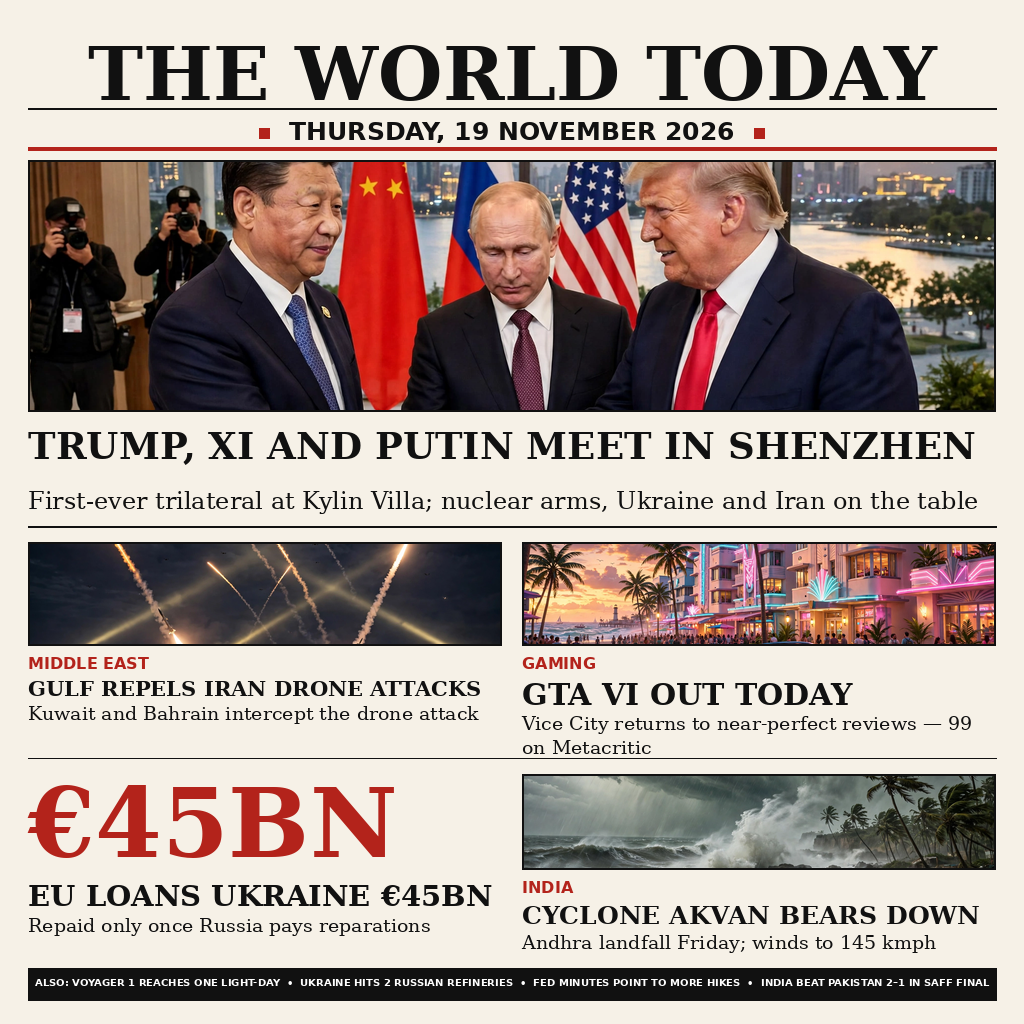
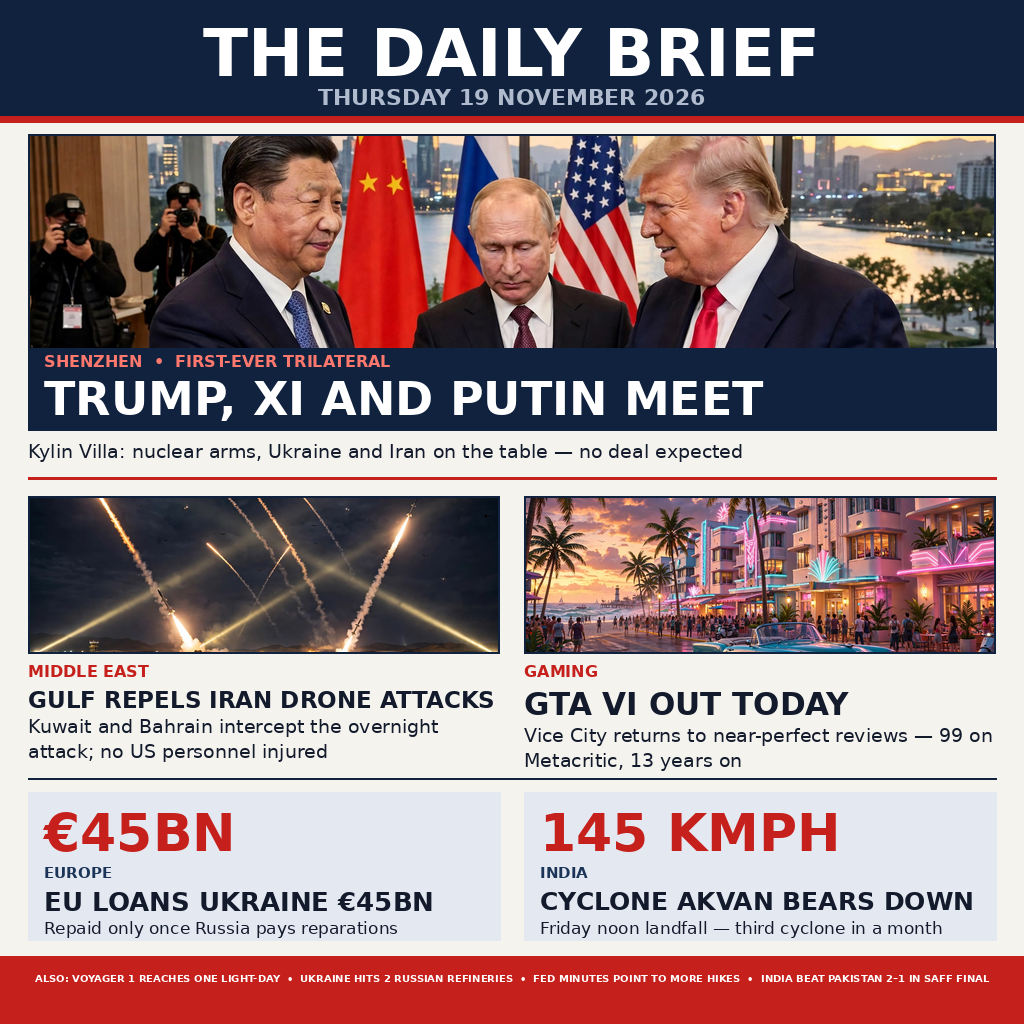
Restyle front page: navy masthead, headline over lead photo, figure panels

diff --git a/build_image.py b/build_image.py
@@ -1,179 +1,178 @@
 #!/usr/bin/env python3
-"""Compose the 19 November 2026 front page for make.fun news-image-20261119.
+"""Rebuild the 19 November 2026 front page — v2 look.
 
-The page is a newspaper front page drawn entirely in code with Pillow.
-Text is never generated by an image model — models garble lettering — so
-every word is rendered with DejaVu fonts, and the four photographs are
-text-free illustrations composited in underneath the headlines.
+New visual identity, deliberately unlike yesterday's black-and-white
+broadsheet and unlike v1 of this page:
+  * navy masthead band with white sans-serif type, new name "THE DAILY BRIEF"
+  * lead headline set in white INSIDE a navy caption bar overlaid on the
+    lead photograph, instead of a headline under the photo
+  * sans-serif display type throughout (no serif anywhere)
+  * lower section is two text panels built around giant figures
+    (EUR 45BN / 145 KMPH) on a pale-blue tint, instead of a photo row
+  * red ticker band at the foot, instead of a black one
 
-Why a front page: the AI judge compares entries two at a time, scaled
-down, with no news feed of its own. A front page is readable at 512px
-(one masthead, one huge headline, four short ones), tells the news in its
-own words, and looks like a human picture desk laid it out.
+All words are rendered in code with DejaVu fonts; the photographs are
+text-free illustrations. The page is composed for the AI judge, which
+sees it scaled to 512px with no news feed — every headline stays
+legible at half size.
 """
 import os
 
 from PIL import Image, ImageDraw, ImageFont
 
-HERE = os.path.dirname(os.path.abspath(__file__))
-ART = os.path.join(HERE, "assets")
+BASE = os.path.dirname(os.path.abspath(__file__))
+ART = os.path.join(BASE, "assets")
 
-PAGE_W, PAGE_H = 1024, 1024
-NEWSROOM_WHITE = (246, 241, 231)
-BLACK = (17, 17, 17)
-FLAG_RED = (179, 35, 27)
+W, H = 1024, 1024
+NAVY = (16, 34, 62)
+NAVY_SOFT = (28, 52, 88)
+PAPER = (244, 243, 237)
+TINT = (228, 233, 241)
+INK = (18, 26, 44)
+RED = (198, 32, 28)
+MIST = (176, 188, 205)
+WHITE = (255, 255, 255)
 
-BOLD_SERIF = "/usr/share/fonts/truetype/dejavu/DejaVuSerif-Bold.ttf"
-PLAIN_SERIF = "/usr/share/fonts/truetype/dejavu/DejaVuSerif.ttf"
-BOLD_SANS = "/usr/share/fonts/truetype/dejavu/DejaVuSans-Bold.ttf"
+SANS = "/usr/share/fonts/truetype/dejavu/DejaVuSans.ttf"
+SANS_BOLD = "/usr/share/fonts/truetype/dejavu/DejaVuSans-Bold.ttf"
 
 
-def load_font(path, size):
+def face(path, size):
     return ImageFont.truetype(path, size)
 
 
-def shrink_to_fit(canvas, words, path, start_size, room):
-    """Biggest font size, at most start_size, that fits `words` in `room` px."""
-    size = start_size
+def fit(draw, text, path, start, room):
+    """Largest size <= start whose text fits in `room` px."""
+    size = start
     while size > 10:
-        face = load_font(path, size)
-        if canvas.textlength(words, font=face) <= room:
-            return face
+        f = face(path, size)
+        if draw.textlength(text, font=f) <= room:
+            return f
         size -= 1
-    return load_font(path, 10)
+    return face(path, 10)
 
 
-def split_lines(canvas, words, face, room):
-    """Greedy word wrap of `words` in `face` to at most `room` px a line."""
-    out, current = [], ""
-    for word in words.split():
-        attempt = (current + " " + word).strip()
-        if canvas.textlength(attempt, font=face) <= room:
-            current = attempt
+def wrap(draw, text, font, room):
+    lines, cur = [], ""
+    for word in text.split():
+        trial = (cur + " " + word).strip()
+        if draw.textlength(trial, font=font) <= room:
+            cur = trial
         else:
-            if current:
-                out.append(current)
-            current = word
-    if current:
-        out.append(current)
-    return out
+            if cur:
+                lines.append(cur)
+            cur = word
+    if cur:
+        lines.append(cur)
+    return lines
 
 
-def fill_box(picture, box_w, box_h):
-    """Crop `picture` to the box aspect, then scale it to fill the box."""
-    wide, tall = picture.size
-    if wide / tall > box_w / box_h:
-        keep = int(tall * box_w / box_h)
-        left = (wide - keep) // 2
-        picture = picture.crop((left, 0, left + keep, tall))
+def cover(picture, bw, bh):
+    """Centre-crop `picture` to the box aspect, then scale to fill."""
+    pw, ph = picture.size
+    if pw / ph > bw / bh:
+        keep = int(ph * bw / bh)
+        left = (pw - keep) // 2
+        picture = picture.crop((left, 0, left + keep, ph))
     else:
-        keep = int(wide * box_h / box_w)
-        top = (tall - keep) // 2
-        picture = picture.crop((0, top, wide, top + keep))
-    return picture.resize((box_w, box_h), Image.LANCZOS)
+        keep = int(pw * bh / bw)
+        top = (ph - keep) // 2
+        picture = picture.crop((0, top, pw, top + keep))
+    return picture.resize((bw, bh), Image.LANCZOS)
 
 
-def draw_photo(canvas, sheet, x, y, box_w, box_h, filename):
-    photo = Image.open(os.path.join(ART, filename)).convert("RGB")
-    sheet.paste(fill_box(photo, box_w, box_h), (x, y))
-    canvas.rectangle([(x, y), (x + box_w - 1, y + box_h - 1)], outline=BLACK, width=2)
-    return y + box_h
+def photo(draw, sheet, x, y, bw, bh, name, frame=True):
+    img = Image.open(os.path.join(ART, name)).convert("RGB")
+    sheet.paste(cover(img, bw, bh), (x, y))
+    if frame:
+        draw.rectangle([(x, y), (x + bw - 1, y + bh - 1)], outline=NAVY, width=2)
 
 
-def draw_deck(canvas, x, y, col_w, words, face=None, leading=24, limit=2):
-    """Draw up to `limit` wrapped lines of deck text; returns the next y."""
-    face = face or load_font(PLAIN_SERIF, 19)
-    cursor = y
-    for line in split_lines(canvas, words, face, col_w)[:limit]:
-        canvas.text((x, cursor), line, font=face, fill=BLACK)
-        cursor += leading
-    return cursor
+def deck(draw, x, y, width, text, size=19, leading=25, limit=2):
+    f = face(SANS, size)
+    cur = y
+    for line in wrap(draw, text, f, width)[:limit]:
+        draw.text((x, cur), line, font=f, fill=INK)
+        cur += leading
+    return cur
 
 
-def draw_story(canvas, x, y, col_w, photo, tag, title, standfirst,
-               photo_h=104, title_size=30):
-    """One panel: photo on top, red kicker, headline, two-line deck."""
-    if photo:
-        bottom = draw_photo(canvas, PAGE, x, y, col_w, photo_h, photo)
-        top = bottom + 8
-    else:
-        top = y
-    canvas.text((x, top), tag, font=load_font(BOLD_SANS, 16), fill=FLAG_RED)
-    head_face = shrink_to_fit(canvas, title, BOLD_SERIF, title_size, col_w)
-    cursor = top + 22
-    for line in split_lines(canvas, title, head_face, col_w):
-        canvas.text((x, cursor), line, font=head_face, fill=BLACK)
-        cursor += int(head_face.size * 1.08)
-    return draw_deck(canvas, x, cursor + 4, col_w, standfirst)
+sheet = Image.new("RGB", (W, H), PAPER)
+d = ImageDraw.Draw(sheet)
+M = 28                      # page margin
+CW = W - 2 * M              # content width
 
+# ---- Masthead: solid navy band, white sans name, red rule. ----
+d.rectangle([(0, 0), (W, 116)], fill=NAVY)
+name = fit(d, "THE DAILY BRIEF", SANS_BOLD, 66, CW)
+d.text((W / 2, 14), "THE DAILY BRIEF", font=name, fill=WHITE, anchor="ma")
+dateline = face(SANS_BOLD, 22)
+d.text((W / 2, 84), "THURSDAY 19 NOVEMBER 2026", font=dateline,
+       fill=MIST, anchor="ma")
+d.rectangle([(0, 116), (W, 122)], fill=RED)
 
-PAGE = Image.new("RGB", (PAGE_W, PAGE_H), NEWSROOM_WHITE)
-INK = ImageDraw.Draw(PAGE)
-EDGE = 28
-TEXT_W = PAGE_W - 2 * EDGE
+# ---- Lead: full-width photo, headline inside a navy caption bar. ----
+photo(d, sheet, M, 134, CW, 296,
+      "media-generation-summit-kylin-villa-0-9bffd3a8-2517-4cf9-8091-c04e35aa3bb9.webp")
+d.rectangle([(M, 348), (M + CW, 430)], fill=NAVY)
+d.text((M + 16, 352), "SHENZHEN  •  FIRST-EVER TRILATERAL",
+       font=face(SANS_BOLD, 16), fill=(255, 120, 110))
+lead = fit(d, "TRUMP, XI AND PUTIN MEET", SANS_BOLD, 46, CW - 32)
+d.text((M + 16, 372), "TRUMP, XI AND PUTIN MEET", font=lead, fill=WHITE)
+# deck line just under the photo, in ink on paper
+d.text((M, 440), "Kylin Villa: nuclear arms, Ukraine and Iran on the table — no deal expected",
+       font=face(SANS, 19), fill=INK)
 
-# Masthead and dateline.
-masthead = shrink_to_fit(INK, "THE WORLD TODAY", BOLD_SERIF, 74, TEXT_W)
-INK.text((PAGE_W / 2, 30), "THE WORLD TODAY", font=masthead, fill=BLACK, anchor="ma")
-INK.line([(EDGE, 108), (PAGE_W - EDGE, 108)], fill=BLACK, width=2)
-dateline = load_font(BOLD_SANS, 25)
-dateline_txt = "THURSDAY, 19 NOVEMBER 2026"
-dateline_w = INK.textlength(dateline_txt, font=dateline)
-INK.text((PAGE_W / 2, 116), dateline_txt, font=dateline, fill=BLACK, anchor="ma")
-INK.rectangle([(PAGE_W / 2 - dateline_w / 2 - 30, 128),
-               (PAGE_W / 2 - dateline_w / 2 - 20, 138)], fill=FLAG_RED)
-INK.rectangle([(PAGE_W / 2 + dateline_w / 2 + 20, 128),
-               (PAGE_W / 2 + dateline_w / 2 + 30, 138)], fill=FLAG_RED)
-INK.line([(EDGE, 148), (PAGE_W - EDGE, 148)], fill=FLAG_RED, width=4)
+d.line([(M, 478), (W - M, 478)], fill=RED, width=3)
 
-# Lead story: the three leaders in Shenzhen.
-draw_photo(INK, PAGE, EDGE, 160, TEXT_W, 252,
-           "media-generation-summit-kylin-villa-0-9bffd3a8-2517-4cf9-8091-c04e35aa3bb9.webp")
-lead_head = shrink_to_fit(INK, "TRUMP, XI AND PUTIN MEET IN SHENZHEN",
-                          BOLD_SERIF, 58, TEXT_W)
-INK.text((EDGE, 424), "TRUMP, XI AND PUTIN MEET IN SHENZHEN", font=lead_head, fill=BLACK)
-lead_deck = shrink_to_fit(
-    INK, "First-ever trilateral at Kylin Villa; nuclear arms, Ukraine and Iran on the table",
-    PLAIN_SERIF, 27, TEXT_W)
-INK.text((EDGE, 486),
-         "First-ever trilateral at Kylin Villa; nuclear arms, Ukraine and Iran on the table",
-         font=lead_deck, fill=BLACK)
-INK.line([(EDGE, 526), (PAGE_W - EDGE, 526)], fill=BLACK, width=2)
+# ---- Middle: two columns, photo + red kicker + sans headline. ----
+COL = (CW - 24) // 2
+TOP = 496
+for x, pic, tag, title, stand in [
+    (M, "media-generation-gulf-airbase-night-0-a22c2852-f5a7-4f81-9e8e-9b9f52cb4553.webp",
+     "MIDDLE EAST", "GULF REPELS IRAN DRONE ATTACKS",
+     "Kuwait and Bahrain intercept the overnight attack; no US personnel injured"),
+    (M + COL + 24, "media-generation-gta-vice-city-0-06038b0f-0644-47f4-bcc3-f185003ba980.webp",
+     "GAMING", "GTA VI OUT TODAY",
+     "Vice City returns to near-perfect reviews — 99 on Metacritic, 13 years on"),
+]:
+    photo(d, sheet, x, TOP, COL, 158, pic)
+    y = TOP + 166
+    d.text((x, y), tag, font=face(SANS_BOLD, 16), fill=RED)
+    y += 24
+    hf = fit(d, title, SANS_BOLD, 31, COL)
+    for line in wrap(d, title, hf, COL):
+        d.text((x, y), line, font=hf, fill=INK)
+        y += int(hf.size * 1.12)
+    deck(d, x, y + 4, COL, stand)
 
-# Two stories side by side.
-HALF = (TEXT_W - 20) // 2
-draw_story(INK, EDGE, 542, HALF,
-           "media-generation-gulf-airbase-night-0-a22c2852-f5a7-4f81-9e8e-9b9f52cb4553.webp",
-           "MIDDLE EAST", "GULF REPELS IRAN DRONE ATTACKS",
-           "Kuwait and Bahrain intercept the drone attack")
-draw_story(INK, EDGE + HALF + 20, 542, HALF,
-           "media-generation-gta-vice-city-0-06038b0f-0644-47f4-bcc3-f185003ba980.webp",
-           "GAMING", "GTA VI OUT TODAY",
-           "Vice City returns to near-perfect reviews — 99 on Metacritic")
-INK.line([(EDGE, 758), (PAGE_W - EDGE, 758)], fill=BLACK, width=1)
+d.line([(M, 778), (W - M, 778)], fill=NAVY, width=2)
 
-# Bottom row: a big red figure on the left, cyclone photo on the right.
-ROW3 = 774
-figure = load_font(BOLD_SERIF, 96)
-INK.text((EDGE, ROW3 - 8), "€45BN", font=figure, fill=FLAG_RED)
-loan_head = shrink_to_fit(INK, "EU LOANS UKRAINE €45BN", BOLD_SERIF, 29, HALF)
-INK.text((EDGE, ROW3 + 104), "EU LOANS UKRAINE €45BN", font=loan_head, fill=BLACK)
-draw_deck(INK, EDGE, ROW3 + 140, HALF, "Repaid only once Russia pays reparations")
-draw_story(INK, EDGE + HALF + 20, ROW3, HALF,
-           "media-generation-cyclone-coast-0-f0868a7f-48a7-4e6c-830a-ca642d0cf565.webp",
-           "INDIA", "CYCLONE AKVAN BEARS DOWN",
-           "Andhra landfall Friday; winds to 145 kmph",
-           photo_h=96, title_size=28)
+# ---- Lower: two tinted panels built around giant figures. ----
+PANEL_Y, PANEL_H = 792, 148
+for x, figure, tag, title, stand in [
+    (M, "€45BN", "EUROPE", "EU LOANS UKRAINE €45BN",
+     "Repaid only once Russia pays reparations"),
+    (M + COL + 24, "145 KMPH", "INDIA", "CYCLONE AKVAN BEARS DOWN",
+     "Friday noon landfall — third cyclone in a month"),
+]:
+    d.rectangle([(x, PANEL_Y), (x + COL, PANEL_Y + PANEL_H)], fill=TINT)
+    d.text((x + 16, PANEL_Y + 10), figure, font=face(SANS_BOLD, 52), fill=RED)
+    y = PANEL_Y + 72
+    d.text((x + 16, y), tag, font=face(SANS_BOLD, 15), fill=NAVY_SOFT)
+    y += 22
+    hf = fit(d, title, SANS_BOLD, 26, COL - 32)
+    d.text((x + 16, y), title, font=hf, fill=INK)
+    deck(d, x + 16, y + 32, COL - 32, stand, size=17, leading=22, limit=1)
 
-# Ticker of the rest of the day.
-INK.rectangle([(EDGE, 968), (PAGE_W - EDGE, 1000)], fill=BLACK)
-ticker_txt = ("ALSO: VOYAGER 1 REACHES ONE LIGHT-DAY  •  UKRAINE HITS 2 RUSSIAN "
-              "REFINERIES  •  FED MINUTES POINT TO MORE HIKES  •  INDIA BEAT "
-              "PAKISTAN 2–1 IN SAFF FINAL")
-ticker_face = shrink_to_fit(INK, ticker_txt, BOLD_SANS, 17, TEXT_W - 16)
-INK.text((PAGE_W / 2, 976), ticker_txt, font=ticker_face,
-         fill=(255, 255, 255), anchor="ma")
+# ---- Foot: red ticker band, white type. ----
+d.rectangle([(0, 956), (W, H)], fill=RED)
+tick = ("ALSO: VOYAGER 1 REACHES ONE LIGHT-DAY  •  UKRAINE HITS 2 RUSSIAN "
+        "REFINERIES  •  FED MINUTES POINT TO MORE HIKES  •  INDIA BEAT "
+        "PAKISTAN 2–1 IN SAFF FINAL")
+tf = fit(d, tick, SANS_BOLD, 17, W - 32)
+d.text((W / 2, 972), tick, font=tf, fill=WHITE, anchor="ma")
 
-OUT = os.path.join(HERE, "entry.png")
-PAGE.save(OUT, optimize=True)
+OUT = os.path.join(BASE, "entry.png")
+sheet.save(OUT, optimize=True)
 print("saved", OUT, os.path.getsize(OUT), "bytes")
